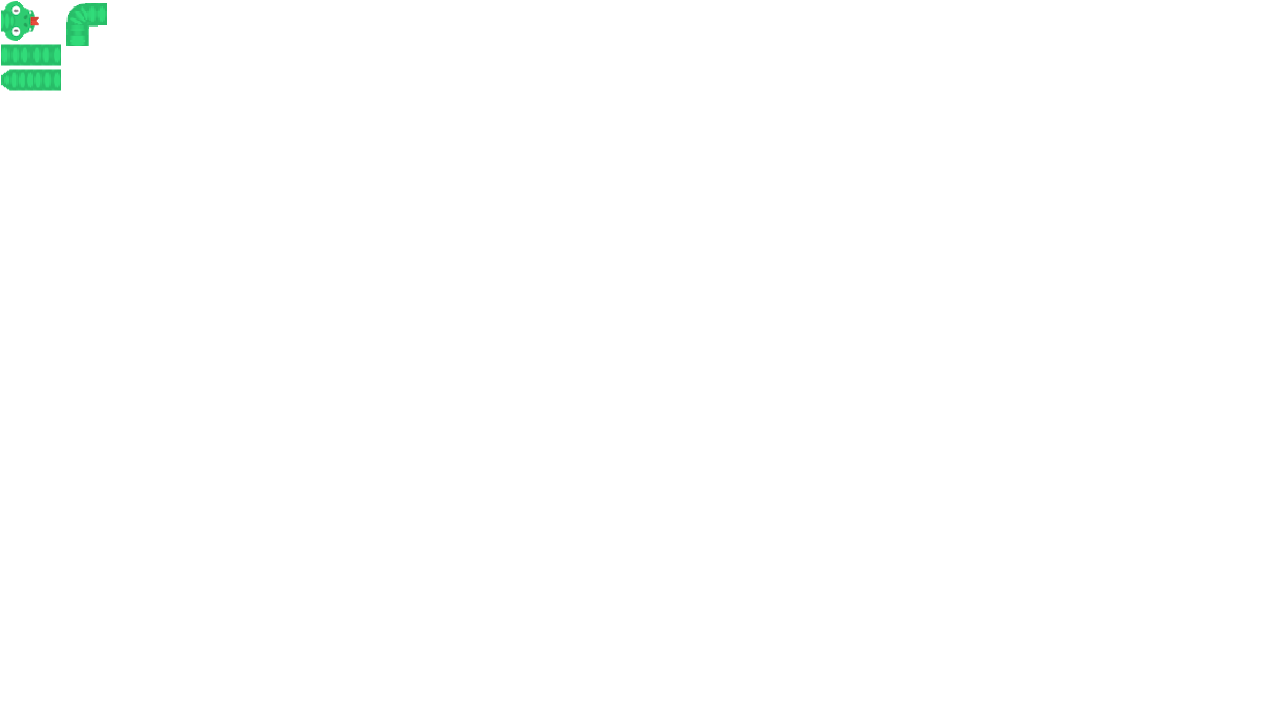
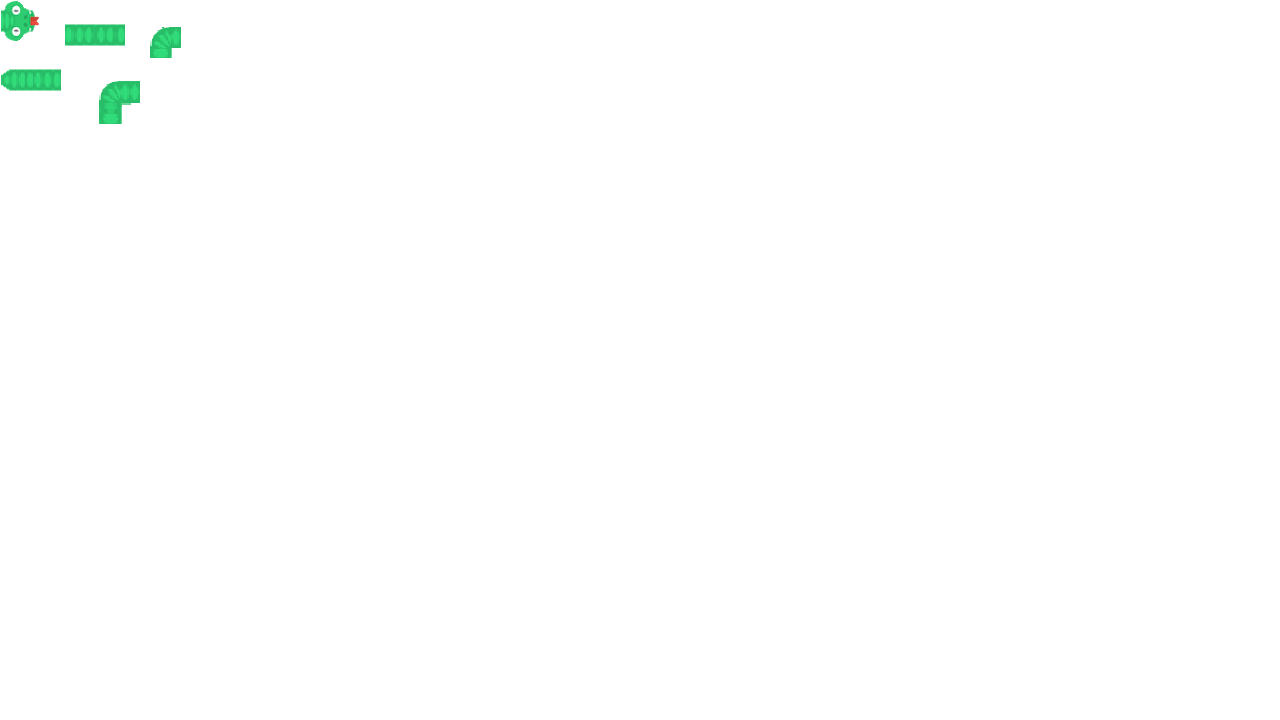
Fixed rotation error for sprite and added snake curves to snake movement

Changed region(s): [[0.0, 0.0, 0.1562, 0.1833]]

diff --git a/Games/Schnek/js/schnek.js b/Games/Schnek/js/schnek.js
@@ -207,22 +207,22 @@ function initializeGrassTiles() {
         Vector2.One,
         Vector2.Zero,
         new Vector2(
-            40,
-            40
+            BoardData.GRASS_TILE_WIDTH,
+            BoardData.GRASS_TILE_HIGHT
         )
     );
 
     transformDark = new Transform2D(
         new Vector2(
-            40, 
+            BoardData.GRASS_TILE_WIDTH, 
             0
         ),
         0,
         Vector2.One,
         Vector2.Zero,
         new Vector2(
-            40,
-            40
+            BoardData.GRASS_TILE_WIDTH,
+            BoardData.GRASS_TILE_HIGHT
         )
     );
 
@@ -236,8 +236,8 @@ function initializeGrassTiles() {
             55      
         ),
         new Vector2(
-            40,     //TODO: make constants
-            40
+            BoardData.GRASS_TILE_WIDTH,     
+            BoardData.GRASS_TILE_HIGHT
         )
     );
 
@@ -250,8 +250,8 @@ function initializeGrassTiles() {
             50      
         ),
         new Vector2(
-            40,     //TODO: make constants
-            40
+            BoardData.GRASS_TILE_WIDTH,     
+            BoardData.GRASS_TILE_HIGHT
         )
     );
 
@@ -284,8 +284,8 @@ function initializeGrassTiles() {
 
                 grassLightClone.transform.setTranslation(
                     new Vector2(
-                        i*40,
-                        j*40
+                        i*BoardData.GRASS_TILE_WIDTH,
+                        j*BoardData.GRASS_TILE_HIGHT
                     )
                 );
                 objectManager.add(grassLightClone);
@@ -297,8 +297,8 @@ function initializeGrassTiles() {
 
                 grassDarkClone.transform.setTranslation(
                     new Vector2(
-                        i*40,
-                        j*40
+                        i*BoardData.GRASS_TILE_WIDTH,
+                        j*BoardData.GRASS_TILE_HIGHT
                     )
                 );
                 objectManager.add(grassDarkClone);
@@ -311,8 +311,8 @@ function initializeGrassTiles() {
 
                 grassDarkClone.transform.setTranslation(
                     new Vector2(
-                        i*40,
-                        j*40
+                        i*BoardData.GRASS_TILE_WIDTH,
+                        j*BoardData.GRASS_TILE_HIGHT
                     )
                 );
                 objectManager.add(grassDarkClone);
@@ -324,8 +324,8 @@ function initializeGrassTiles() {
 
                 grassLightClone.transform.setTranslation(
                     new Vector2(
-                        i*40,
-                        j*40
+                        i*BoardData.GRASS_TILE_WIDTH,
+                        j*BoardData.GRASS_TILE_HIGHT
                     )
                 );    
                 objectManager.add(grassLightClone);            
@@ -347,7 +347,7 @@ function initializeSnakeTail() {
         Vector2.One,
         Vector2.Zero,
         new Vector2(
-            40,
+            BoardData.GRASS_TILE_WIDTH,
             22
         )
     );
@@ -361,7 +361,7 @@ function initializeSnakeTail() {
             69
         ),
         new Vector2(
-            40,
+            BoardData.GRASS_TILE_WIDTH,
             22
         )
     );
@@ -390,14 +390,14 @@ function initializeSnakeBody() {
     transform = new Transform2D(
         new Vector2(
             120,
-            289
+            280
         ),
         0,
         Vector2.One,
         Vector2.Zero,
         new Vector2(
-            40,
-            22
+            BoardData.GRASS_TILE_WIDTH,
+            BoardData.GRASS_TILE_HIGHT
         )
     );
 
@@ -406,12 +406,12 @@ function initializeSnakeBody() {
         snakeSpriteSheet,
         1,
         new Vector2(
-            1,
-            44
+            65,
+            15
         ),
         new Vector2(
-            40,
-            22
+            BoardData.GRASS_TILE_WIDTH,
+            BoardData.GRASS_TILE_HIGHT
         )
     );
 
@@ -432,8 +432,8 @@ function initializeSnakeBody() {
 
         spriteClone.transform.setTranslation(
             new Vector2(
-                40*i,
-                289
+                BoardData.GRASS_TILE_WIDTH*i,
+                280
             )
         );
 
@@ -455,7 +455,7 @@ function initializeSnakeHead() {
             160,
             279
         ),
-        -Math.PI/2, //TODO: wont rotate for some reason
+        0, 
         Vector2.One,
         Vector2.Zero,
         new Vector2(
@@ -507,7 +507,6 @@ function initializeSnakeControllers() {
 }
 
 function resetGame() {
-
     clearCanvas();
     startGame();
 }

diff --git a/Games/Schnek/js/Controller/snakeNodeConroller.js b/Games/Schnek/js/Controller/snakeNodeConroller.js
@@ -7,7 +7,7 @@ class snakeNodeController {
         this.currentDirectionIncrement = 0;
         this.timeSinceLastMoveInMs = 0;
         this.timeSinceDirectionChangeInMs = 0;
-        this.move_interval = 200;
+        this.move_interval = 1000;
     }
 
     update(gameTime, parent) {
@@ -17,11 +17,13 @@ class snakeNodeController {
             while(currentNode != null) {
 
                 let translateBy = new Vector2(
-                    currentNode.direct.x * 40,
-                    currentNode.direct.y * 40,
+                    currentNode.direct.x * BoardData.GRASS_TILE_WIDTH,
+                    currentNode.direct.y * BoardData.GRASS_TILE_HIGHT,
                 );
                 currentNode.x_pat = currentNode.x_pat + currentNode.direct.x;
                 currentNode.y_pat = currentNode.y_pat + currentNode.direct.y;
+
+                this.changeSprite(currentNode, currentNode.prev);
 
                 currentNode.sprite.transform.translateBy(translateBy);
 
@@ -38,5 +40,36 @@ class snakeNodeController {
         }
 
         this.timeSinceLastMoveInMs += gameTime.elapsedTimeInMs;
+    }
+
+    changeSprite(currentNode, previousNode) {
+        if(currentNode.id == this.snakeNodeList.tail.id) {
+            let tailDir = currentNode.prev.direct.x == 0 ? currentNode.prev.direct.y : currentNode.prev.direct.x-1;
+            currentNode.sprite.transform.setRotationInRadians(tailDir*Math.PI/2);
+        } else if(currentNode.id == this.snakeNodeList.head.id) {
+            let tailDir = currentNode.direct.x == 0 ? currentNode.direct.y : currentNode.direct.x-1;
+            currentNode.sprite.transform.setRotationInRadians(tailDir*Math.PI/2);
+        } else {
+            let currDir = currentNode.direct;
+            let prevDir = previousNode.direct;
+            if(!currDir.equals(prevDir)) {
+                currentNode.sprite.artist.sourcePosition = new Vector2(141, 18);
+                currentNode.sprite.transform.setRotationInRadians(0);
+                if((currDir.x == 1 && prevDir.y == 1) || (currDir.y == -1 && prevDir.x == -1)) {
+                    currentNode.sprite.transform.setRotationInRadians(Math.PI/2);
+                } else if((currDir.x == -1 && prevDir.y == -1) || (currDir.y == 1 && prevDir.x == 1)) {
+                    currentNode.sprite.transform.setRotationInRadians(-Math.PI/2);
+                } else if((currDir.x == 1 && prevDir.y == -1) || (currDir.y == 1 && prevDir.x == -1)) {
+                    currentNode.sprite.transform.setRotationInRadians(Math.PI);
+                }
+            } else {
+                currentNode.sprite.artist.sourcePosition = new Vector2(65, 15);
+                currentNode.sprite.artist.sourceDimensions = new Vector2(BoardData.GRASS_TILE_WIDTH, BoardData.GRASS_TILE_HIGHT);
+                currentNode.sprite.transform.setRotationInRadians(0);
+                if(prevDir.y != 0) {
+                    currentNode.sprite.transform.setRotationInRadians(Math.PI/2);
+                }
+            }
+        }
     }
 }

diff --git a/Engine/Artists/Images/SpriteArtist.js b/Engine/Artists/Images/SpriteArtist.js
@@ -61,6 +61,16 @@ class SpriteArtist extends Artist {
         // Set the objects transparency
         this.context.globalAlpha = this.alpha;
 
+        this.context.translate(
+            transform.translation.x + transform.origin.x + this.sourceDimensions.x/2,
+            transform.translation.y + transform.origin.y + this.sourceDimensions.y/2
+        );
+        this.context.rotate(parent.transform.rotationInRadians);
+        this.context.translate(
+            -this.sourceDimensions.x/2 - transform.origin.x - transform.translation.x,
+            -this.sourceDimensions.y/2 - transform.translation.y - transform.origin.y
+        );
+
         // Draw image
         this.context.drawImage(
             this.spriteSheet,

diff --git a/Games/Schnek/schnek.html b/Games/Schnek/schnek.html
@@ -48,13 +48,12 @@
         <script src="../../Engine/Managers/KeyboardManager.js"></script>
         <script src="../../Engine/Managers/SoundManager.js"></script>
      
-        
-        
         <!-- Load Game Scripts -->
         <script src="js/Controller/snakeDoublyLinkedList.js"></script>
         <script src="js/Controller/snakeNodeConroller.js"></script>
         <script src="js/Controller/snakeMovementController.js"></script> 
         <script src="js/Controller/patternController.js"></script>
+        <script src="js/Constants/constants.js"></script>
 
         <!-- Load Game -->
         <script src="js/schnek.js"></script>

diff --git a/Games/Schnek/js/Constants/constants.js b/Games/Schnek/js/Constants/constants.js
@@ -1,0 +1,7 @@
+class BoardData {
+    static GRASS_TILE_WIDTH = 40;
+    static GRASS_TILE_HIGHT = 40;
+}
+
+class SnakeData {
+}
